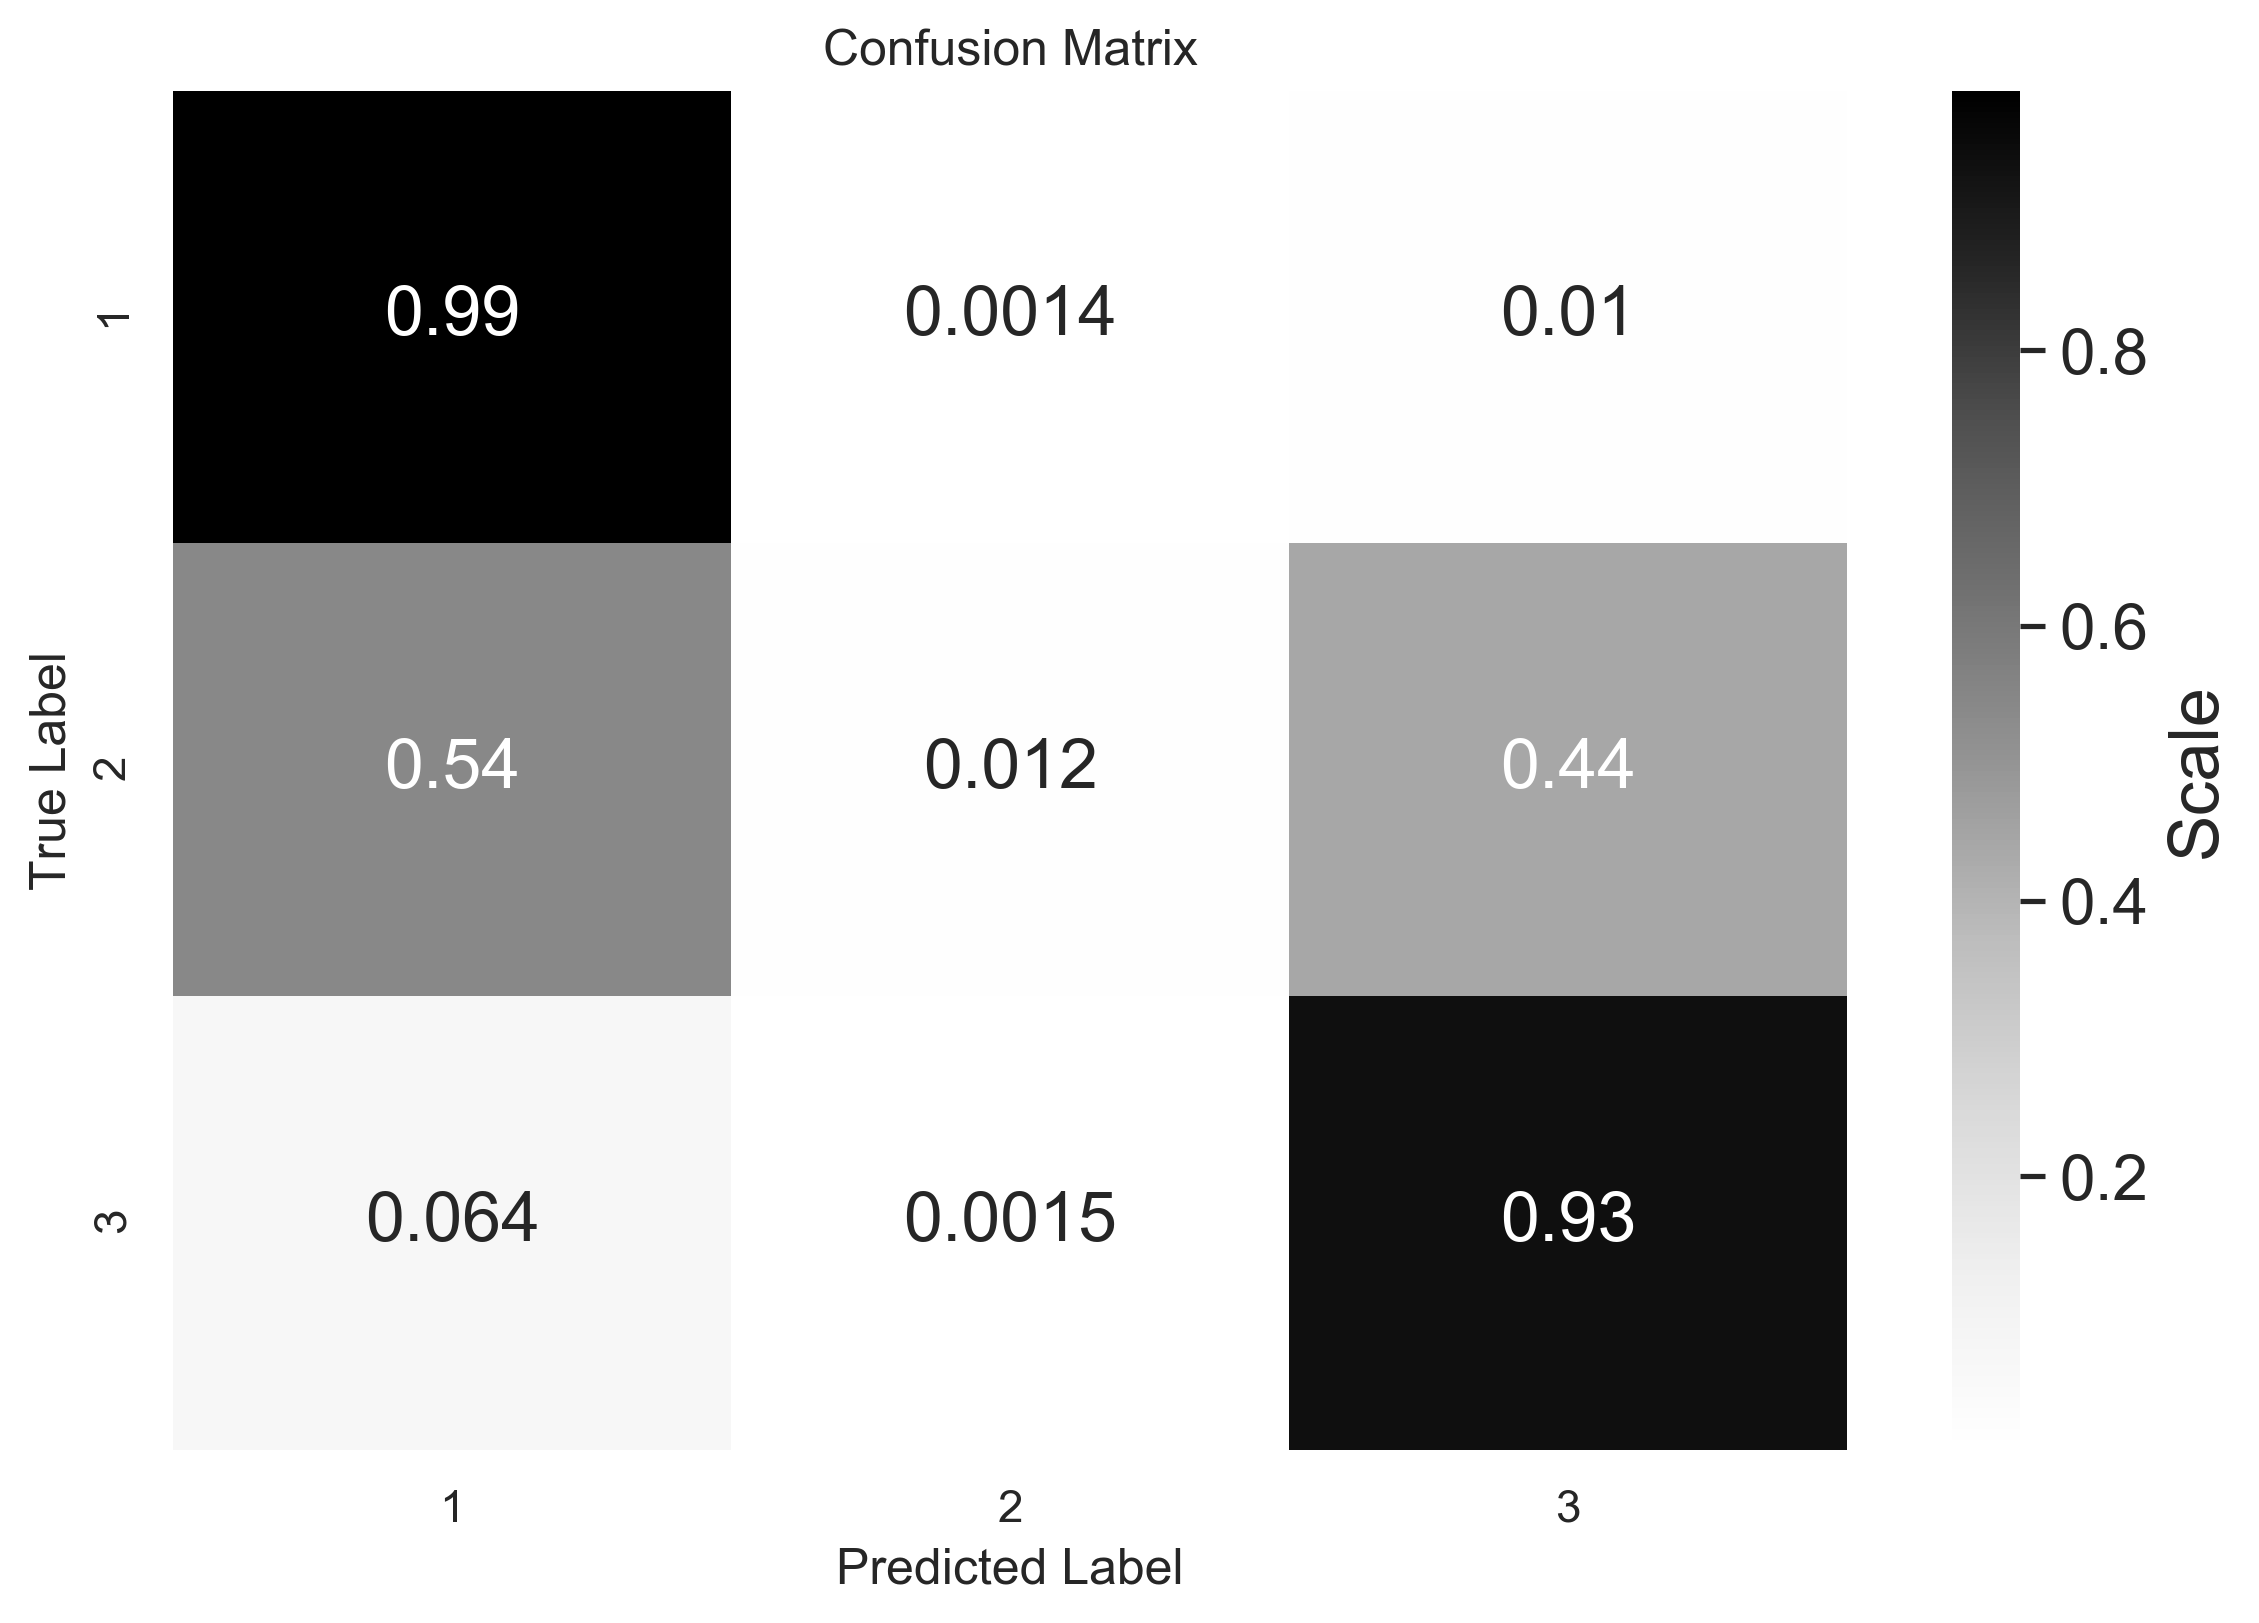
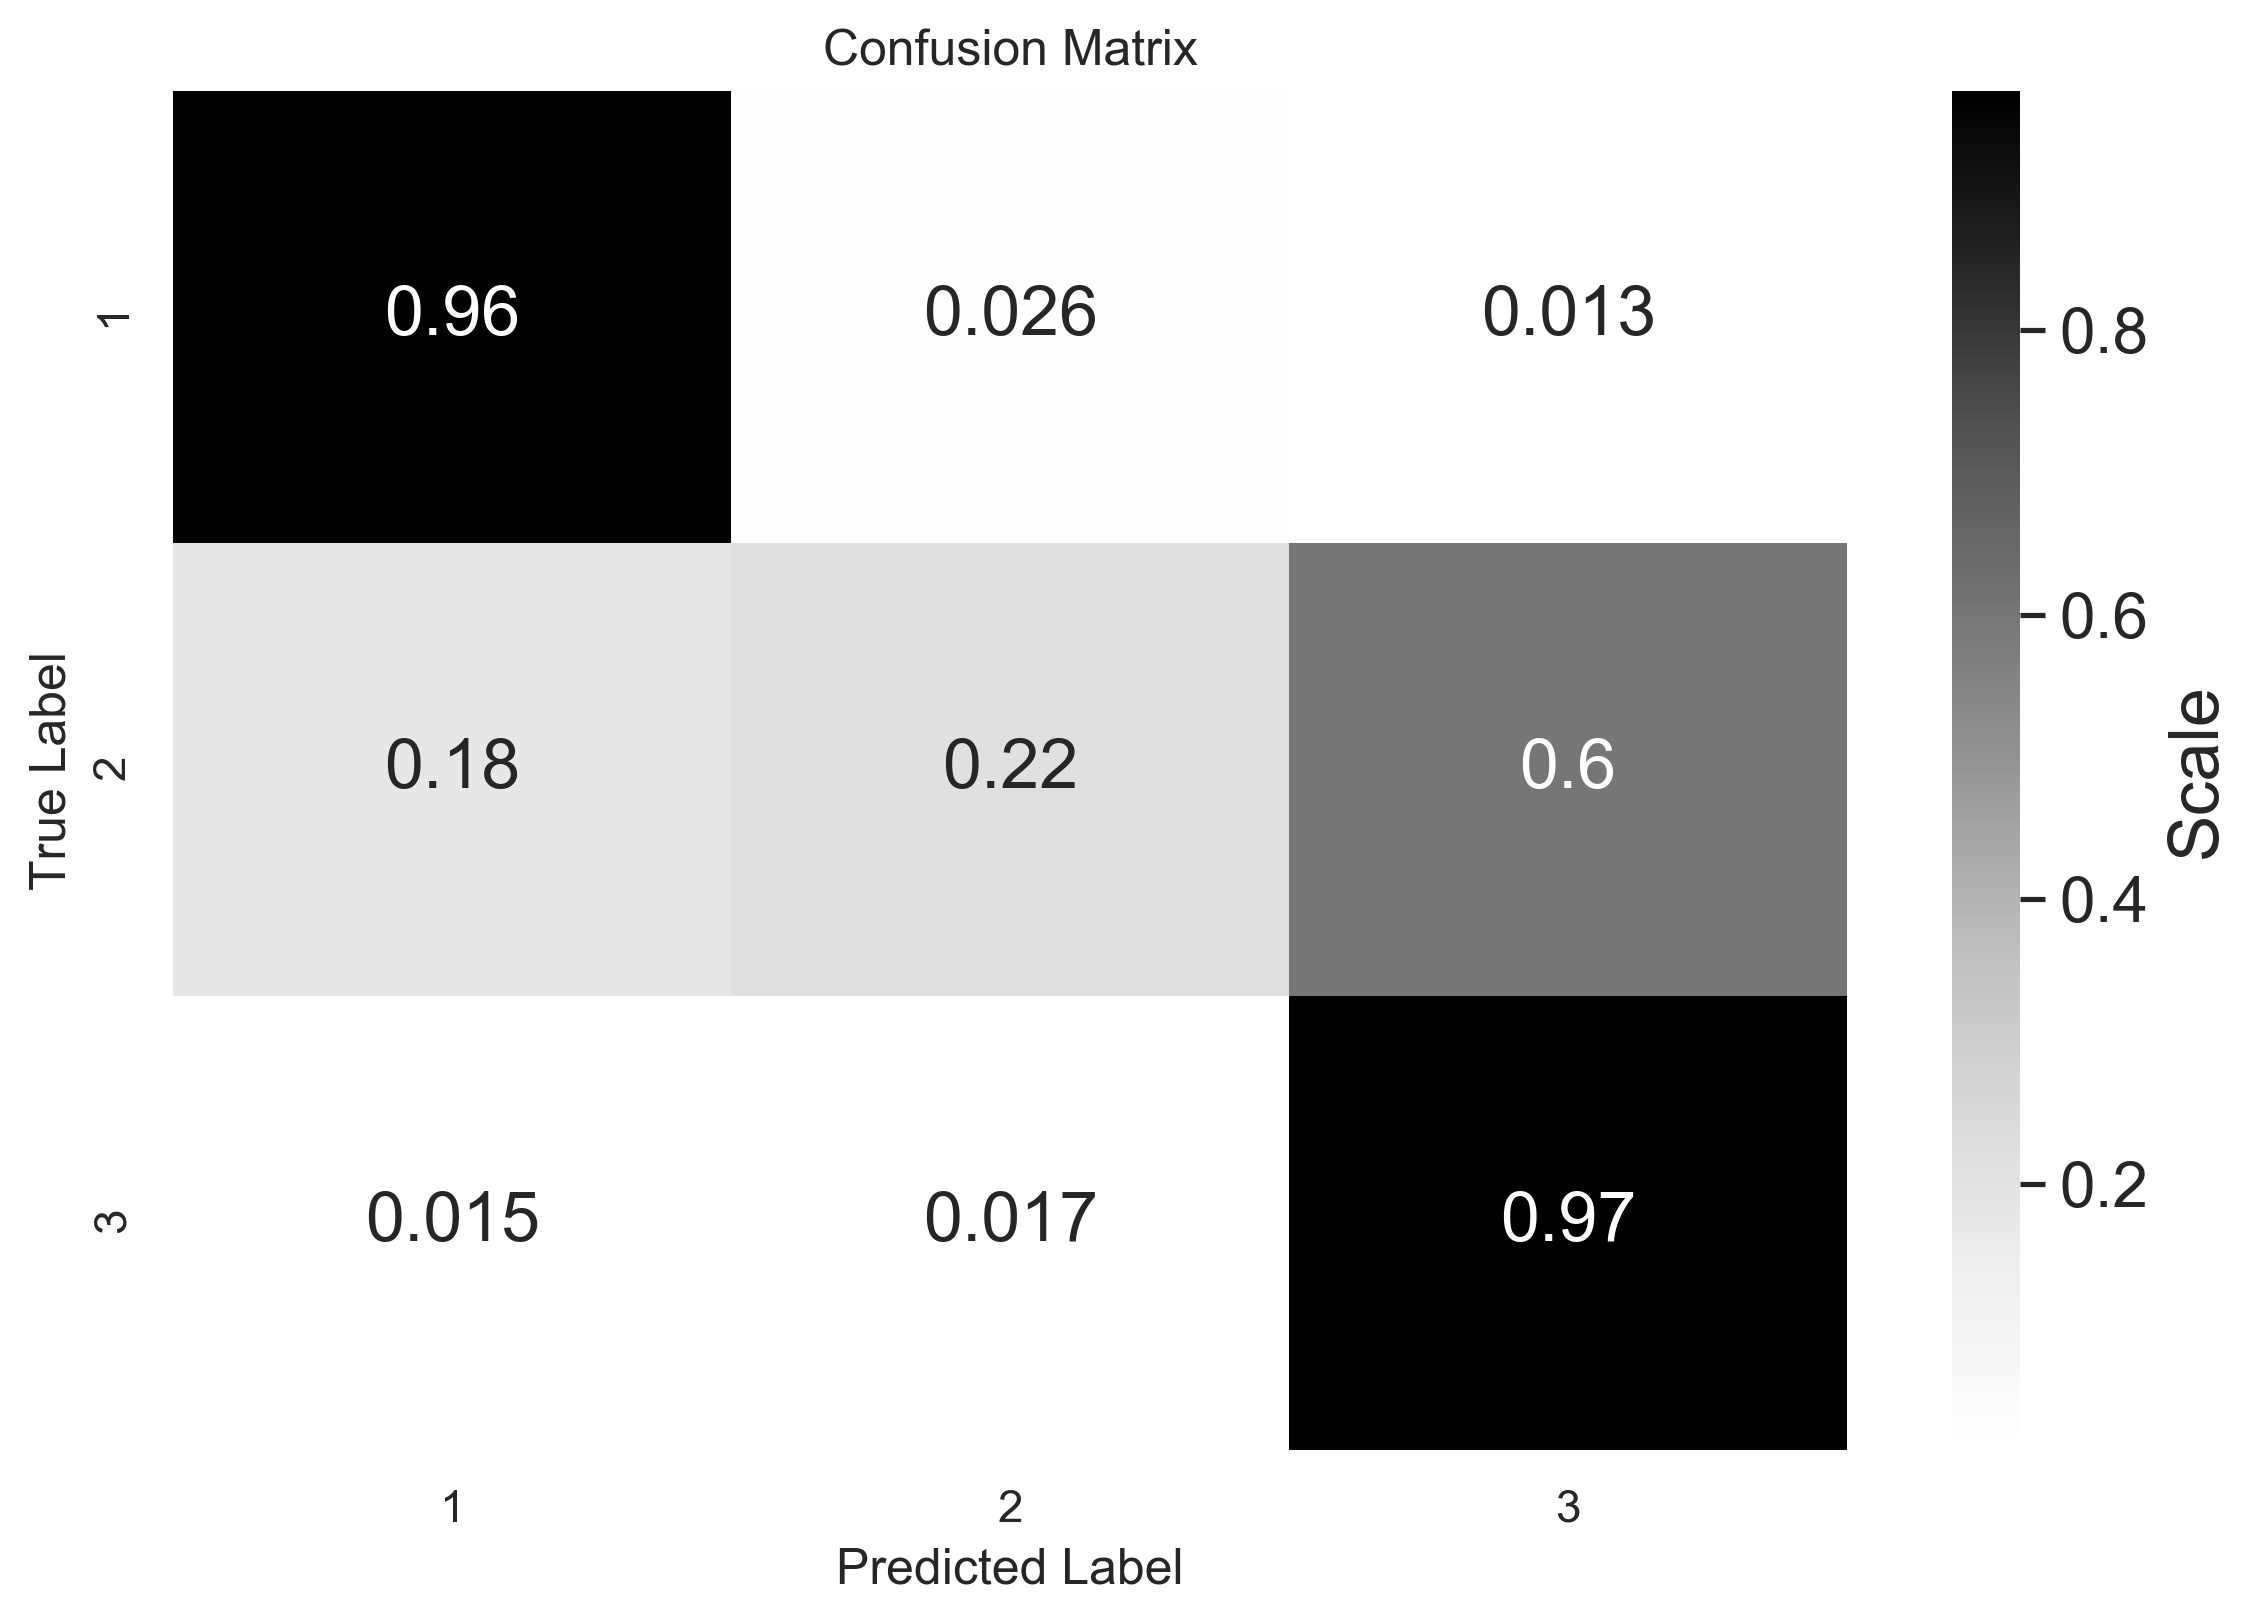
fix normalization

diff --git a/scripts/apply.py b/scripts/apply.py
@@ -176,13 +176,13 @@ def _do_number(data_x, data_y, pred, thrs):
                                     3 * data_y[:,2]
 
     outdata['Output_number_estimated'][
-        np.where(np.logical_and(pred[:,1] < thrs[0], pred[:,2] < thrs[1]))
+        np.where(np.logical_and(outdata['Output_number'][:,1] < thrs[0], outdata['Output_number'][:,2] < thrs[1]))
     ] = 1
     outdata['Output_number_estimated'][
-        np.where(np.logical_and(pred[:,1] >= thrs[0], pred[:,2] < thrs[1]))
+        np.where(np.logical_and(outdata['Output_number'][:,1] >= thrs[0], outdata['Output_number'][:,2] < thrs[1]))
     ] = 2
     outdata['Output_number_estimated'][
-        np.where(pred[:,2] >= thrs[1])
+        np.where(outdata['Output_number'][:,2] >= thrs[1])
     ] = 3
 
     auxfields = [
